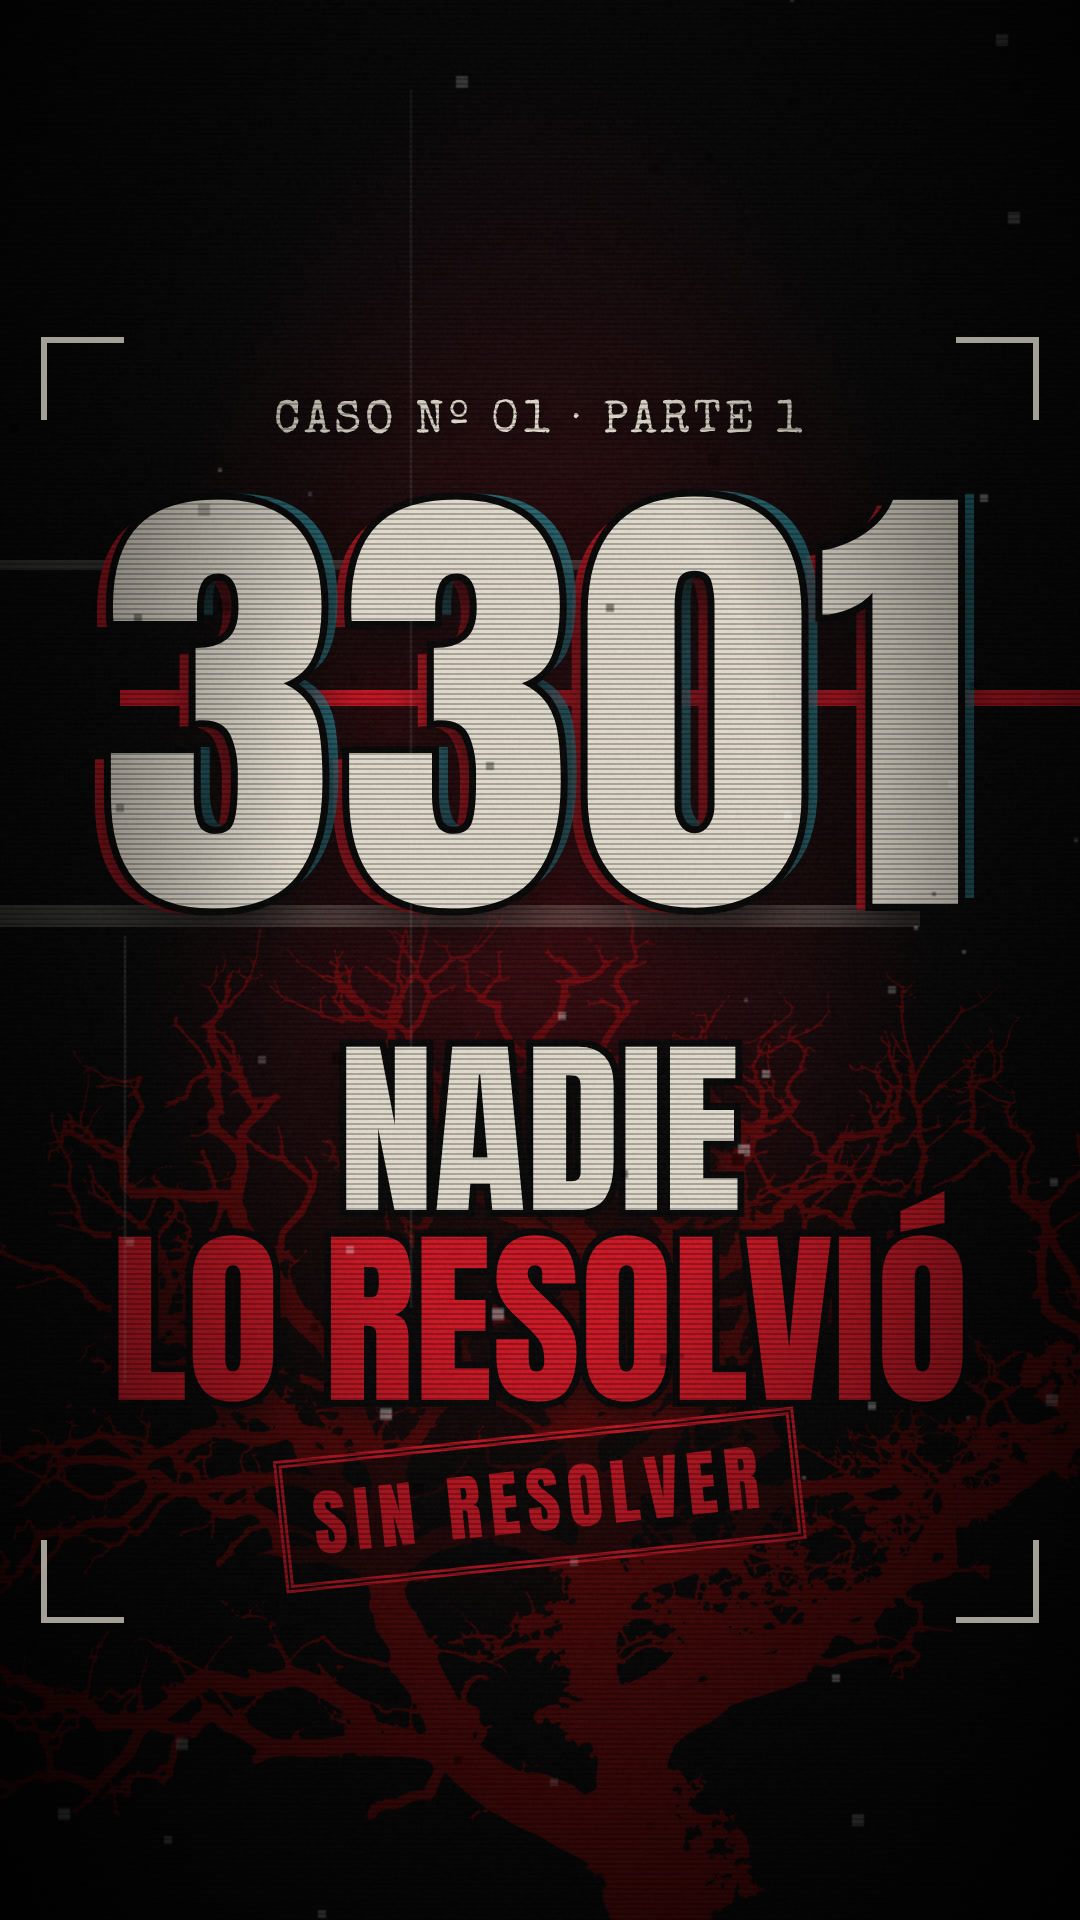
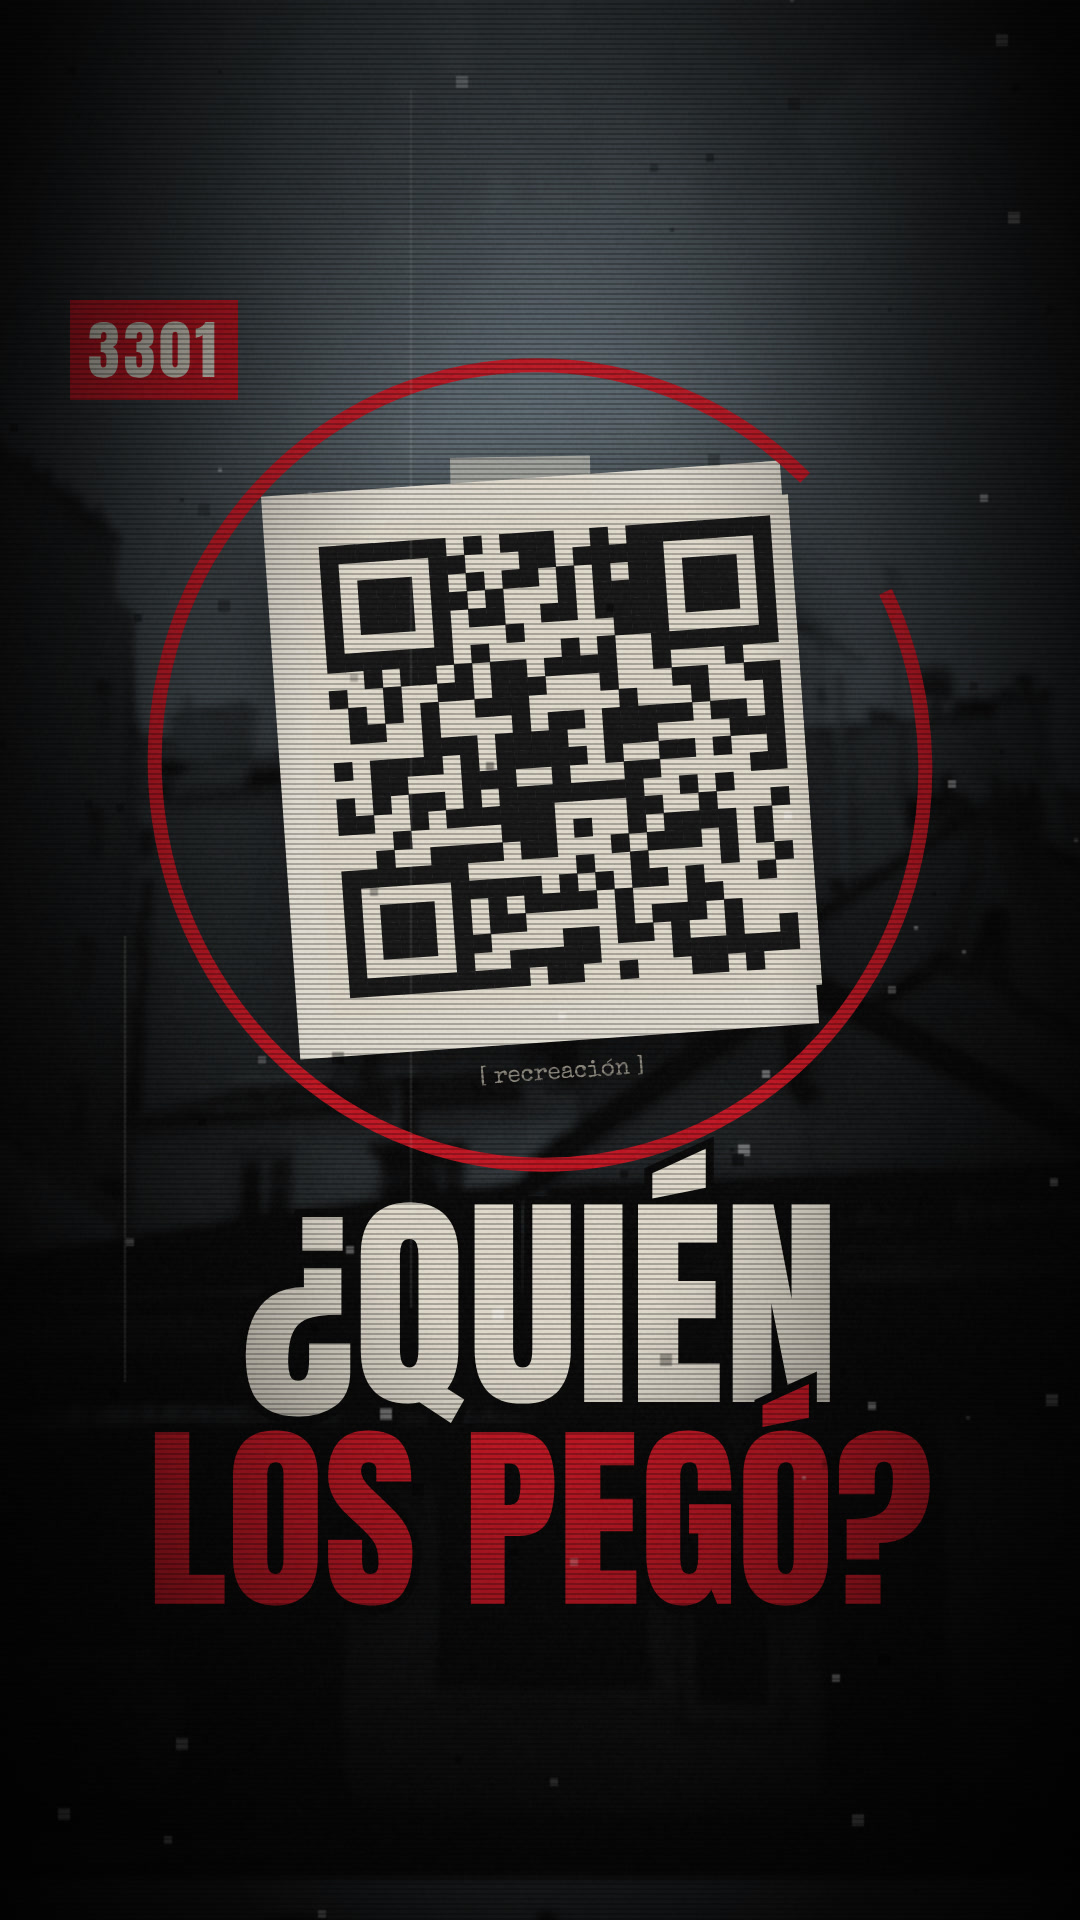
Miniatura Parte 1: un solo mensaje (cartel QR en la calle, circulo rojo, '¿Quien los pego?')
Claude-Session: https://claude.ai/code/session_01UvSALkbKJH2x89YMG5eXiP

diff --git a/what-if-studio/src/cicada01/Cicada01.tsx b/what-if-studio/src/cicada01/Cicada01.tsx
@@ -905,40 +905,32 @@ const Cut: React.FC<{ spec: CutSpec }> = ({ spec }) => {
 export const Cicada01: React.FC = () => <Cut spec={FULL} />;
 export const Cicada01P1: React.FC = () => <Cut spec={PART1} />;
 
-/** The cover (thumbnail) of Part 1: one idea, three words, the 3301 frame. Key content sits in the centre band
- * (y 420-1500) because feeds crop vertical covers. Render: npx remotion still src/index.ts Cicada01Cover out.png */
-export const Cicada01Cover: React.FC = () => {
-  const num = (dx: number, dy: number, color: string, op: number) => (
-    <div style={{ position: 'absolute', left: 0, right: 0, top: 470, textAlign: 'center', transform: `translate(${dx}px, ${dy}px)`, opacity: op }}>
-      <span style={{ fontFamily: TITLE, fontSize: 470, lineHeight: 1, color, letterSpacing: 6 }}>3301</span>
+/** The cover (thumbnail) of Part 1: ONE message. A QR poster (recreation) on a Paris street, a red circle that leads the
+ * eye to it, and the best line of the video, "¿QUIÉN LOS PEGÓ?". 3301 only as a small corner tag.
+ * Render: npx remotion still src/index.ts Cicada01Cover out.png */
+export const Cicada01Cover: React.FC = () => (
+  <AbsoluteFill style={{ background: C.bg, overflow: 'hidden' }}>
+    {/* Paris, from the posters photo: tile 1 filling the frame, its label pushed off the bottom */}
+    <Img src={src('mono-cities.png')} style={{ position: 'absolute', left: -727, top: -40, height: 2115, filter: 'blur(3px)' }} />
+    <AbsoluteFill style={{ background: 'rgba(0,0,0,0.55)' }} />
+    <AbsoluteFill style={{ background: 'radial-gradient(ellipse at 50% 40%, rgba(0,0,0,0) 25%, rgba(0,0,0,0.85) 80%)' }} />
+    {/* the poster */}
+    <div style={{ position: 'absolute', left: 540, top: 760, transform: 'translate(-50%, -50%) rotate(-4deg)', boxShadow: '0 50px 120px rgba(0,0,0,0.95)' }}>
+      <div style={{ background: '#E9E4D8', padding: 34, width: 520 }}>
+        <QrArt size={452} />
+      </div>
+      <div style={{ position: 'absolute', left: 190, top: -22, width: 140, height: 44, background: 'rgba(232,226,212,0.55)', transform: 'rotate(3deg)' }} />
+      <div style={{ position: 'absolute', left: 0, right: 0, bottom: -44, textAlign: 'center', fontFamily: TYPE, fontSize: 24, color: C.dim }}>[ recreación ]</div>
     </div>
-  );
-  return (
-    <AbsoluteFill style={{ background: C.bg, overflow: 'hidden' }}>
-      <Img src={src('bgm-msg.jpg')} style={{ position: 'absolute', inset: 0, width: '100%', height: '100%', objectFit: 'cover', opacity: 0.55 }} />
-      <Img src={src('tree-dark.png')} style={{ position: 'absolute', left: -120, top: 520, width: 1320, opacity: 0.55 }} />
-      <AbsoluteFill style={{ background: 'radial-gradient(ellipse at 50% 45%, rgba(208,16,30,0.28) 0%, rgba(0,0,0,0) 55%)' }} />
-      {/* glitch bars */}
-      {[560, 690, 905].map((y, i) => (
-        <div key={i} style={{ position: 'absolute', left: i % 2 ? 120 : 0, right: i % 2 ? 0 : 160, top: y, height: 10 + 6 * i, background: i === 1 ? C.red : 'rgba(232,226,212,0.25)' }} />
-      ))}
-      <div style={{ position: 'absolute', left: 0, right: 0, top: 400, textAlign: 'center', fontFamily: TYPE, fontSize: 46, color: C.bone, letterSpacing: 4, textShadow: '0 4px 14px #000' }}>CASO Nº 01 · PARTE 1</div>
-      {num(-16, 6, C.red, 0.95)}
-      {num(16, -6, '#2B9FB0', 0.7)}
-      <div style={{ position: 'absolute', left: 0, right: 0, top: 470, textAlign: 'center' }}>
-        <span style={{ fontFamily: TITLE, fontSize: 470, lineHeight: 1, color: C.bone, letterSpacing: 6, WebkitTextStroke: '14px #000', paintOrder: 'stroke fill', textShadow: '0 20px 60px rgba(0,0,0,0.9)' }}>3301</span>
-      </div>
-      <div style={{ position: 'absolute', left: 0, right: 0, top: 1035, textAlign: 'center', fontFamily: TITLE, fontSize: 190, lineHeight: 1, color: C.bone, WebkitTextStroke: '14px #000', paintOrder: 'stroke fill', textShadow: '0 12px 40px #000' }}>NADIE</div>
-      <div style={{ position: 'absolute', left: 0, right: 0, top: 1225, textAlign: 'center', fontFamily: TITLE, fontSize: 190, lineHeight: 1, color: C.red, WebkitTextStroke: '14px #000', paintOrder: 'stroke fill', textShadow: '0 12px 40px #000' }}>LO RESOLVIÓ</div>
-      <div style={{ position: 'absolute', left: 540, top: 1500, transform: 'translate(-50%, -50%) rotate(-6deg)' }}>
-        <div style={{ border: `8px double ${C.red}`, padding: '4px 26px', fontFamily: TITLE, fontSize: 72, color: C.red, letterSpacing: 8, background: 'rgba(0,0,0,0.6)', whiteSpace: 'nowrap' }}>SIN RESOLVER</div>
-      </div>
-      <Film f={0} />
-      <svg width={1080} height={1920} style={{ position: 'absolute', inset: 0 }}>
-        {[[44, 340, 1, 1], [1036, 340, -1, 1], [44, 1620, 1, -1], [1036, 1620, -1, -1]].map(([x, y, sx, sy], i) => (
-          <path key={i} d={`M ${x} ${y + 80 * sy} L ${x} ${y} L ${x + 80 * sx} ${y}`} fill="none" stroke={C.bone} strokeOpacity={0.7} strokeWidth={6} />
-        ))}
-      </svg>
-    </AbsoluteFill>
-  );
-};
+    {/* the red circle: the eye goes here first */}
+    <svg width={1080} height={1920} style={{ position: 'absolute', inset: 0 }}>
+      <ellipse cx={540} cy={765} rx={385} ry={400} fill="none" stroke={C.red} strokeWidth={14} strokeDasharray="2200 140" transform="rotate(-8 540 765)" opacity={0.95} />
+    </svg>
+    {/* the corner tag */}
+    <div style={{ position: 'absolute', left: 70, top: 300, background: C.red, padding: '2px 18px', fontFamily: TITLE, fontSize: 64, color: C.bone, letterSpacing: 4 }}>3301</div>
+    {/* the one line */}
+    <div style={{ position: 'absolute', left: 0, right: 0, top: 1190, textAlign: 'center', fontFamily: TITLE, fontSize: 230, lineHeight: 1, color: C.bone, WebkitTextStroke: '16px #000', paintOrder: 'stroke fill', textShadow: '0 14px 50px #000' }}>¿QUIÉN</div>
+    <div style={{ position: 'absolute', left: 0, right: 0, top: 1420, textAlign: 'center', fontFamily: TITLE, fontSize: 200, lineHeight: 1, color: C.red, WebkitTextStroke: '16px #000', paintOrder: 'stroke fill', textShadow: '0 14px 50px #000' }}>LOS PEGÓ?</div>
+    <Film f={0} />
+  </AbsoluteFill>
+);
